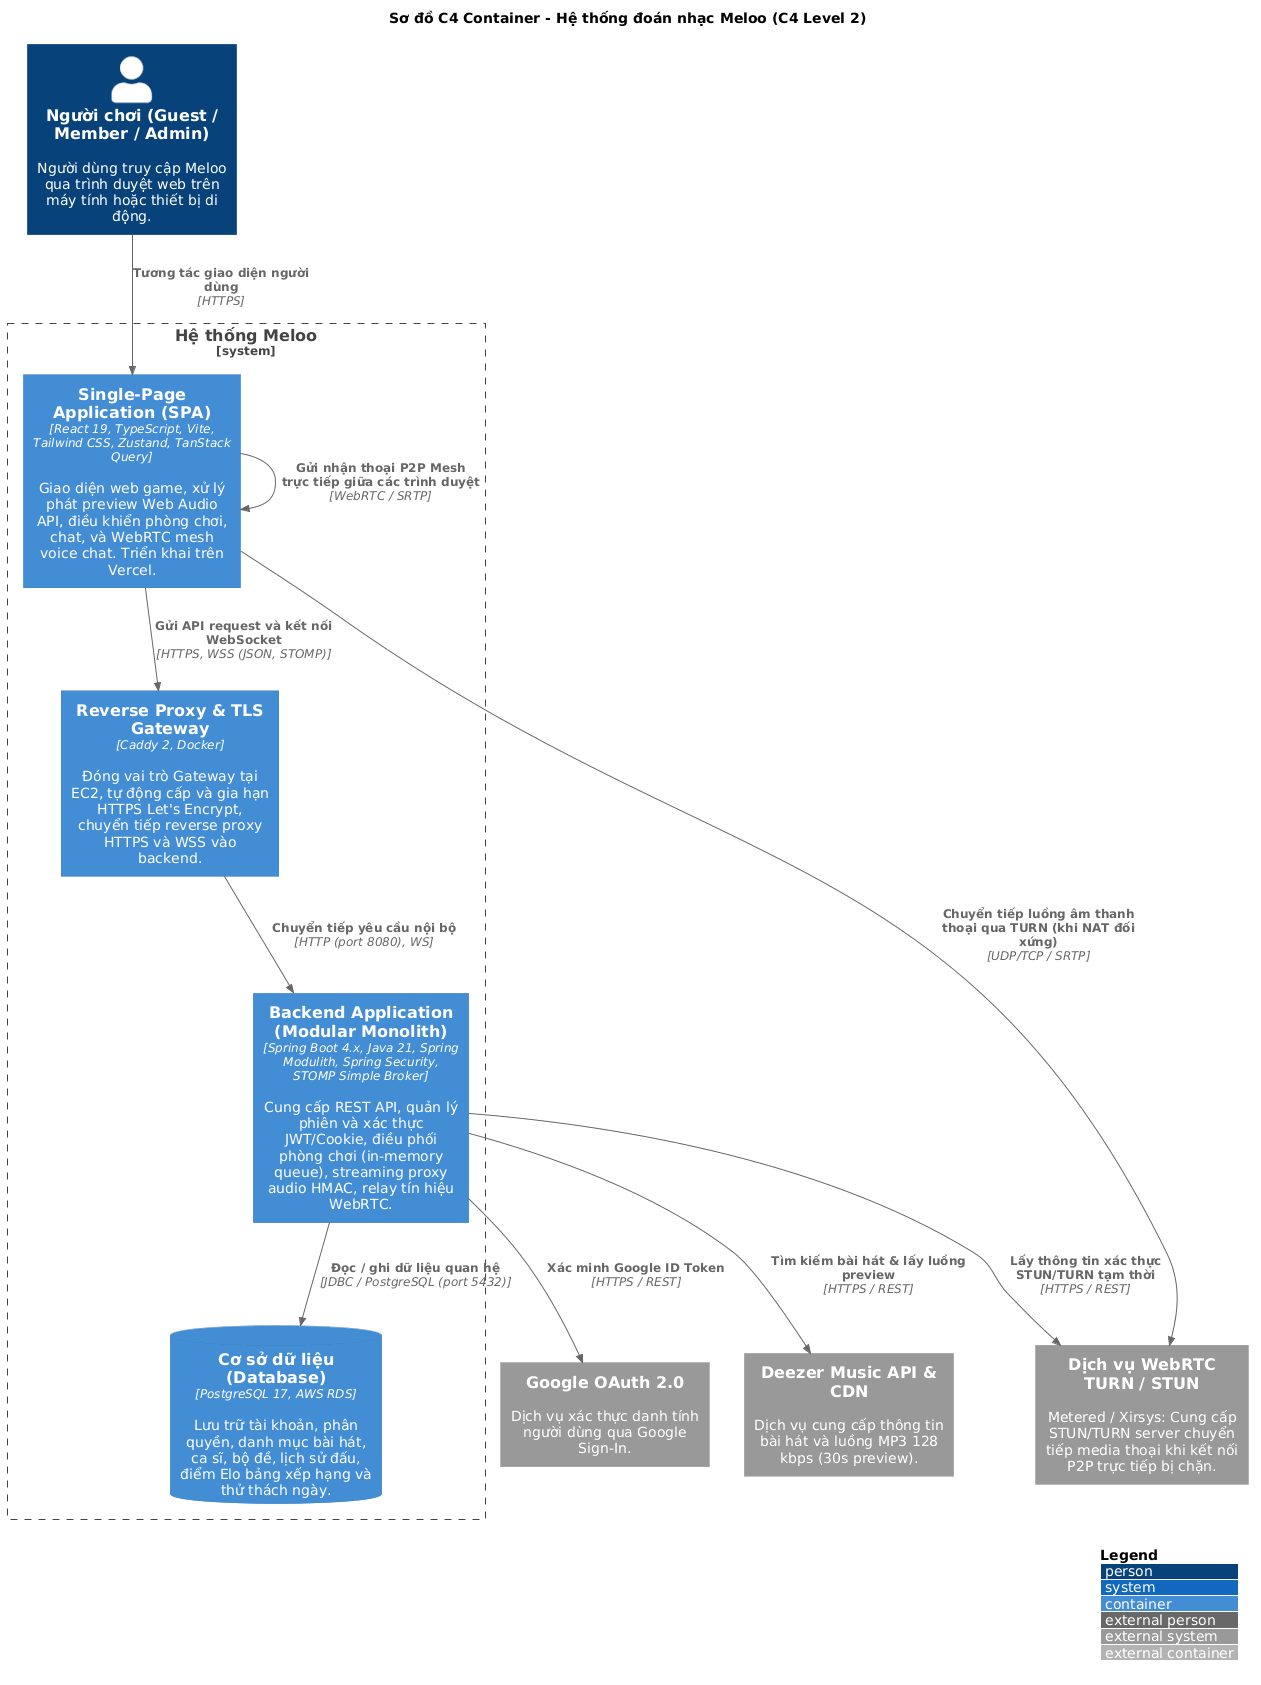
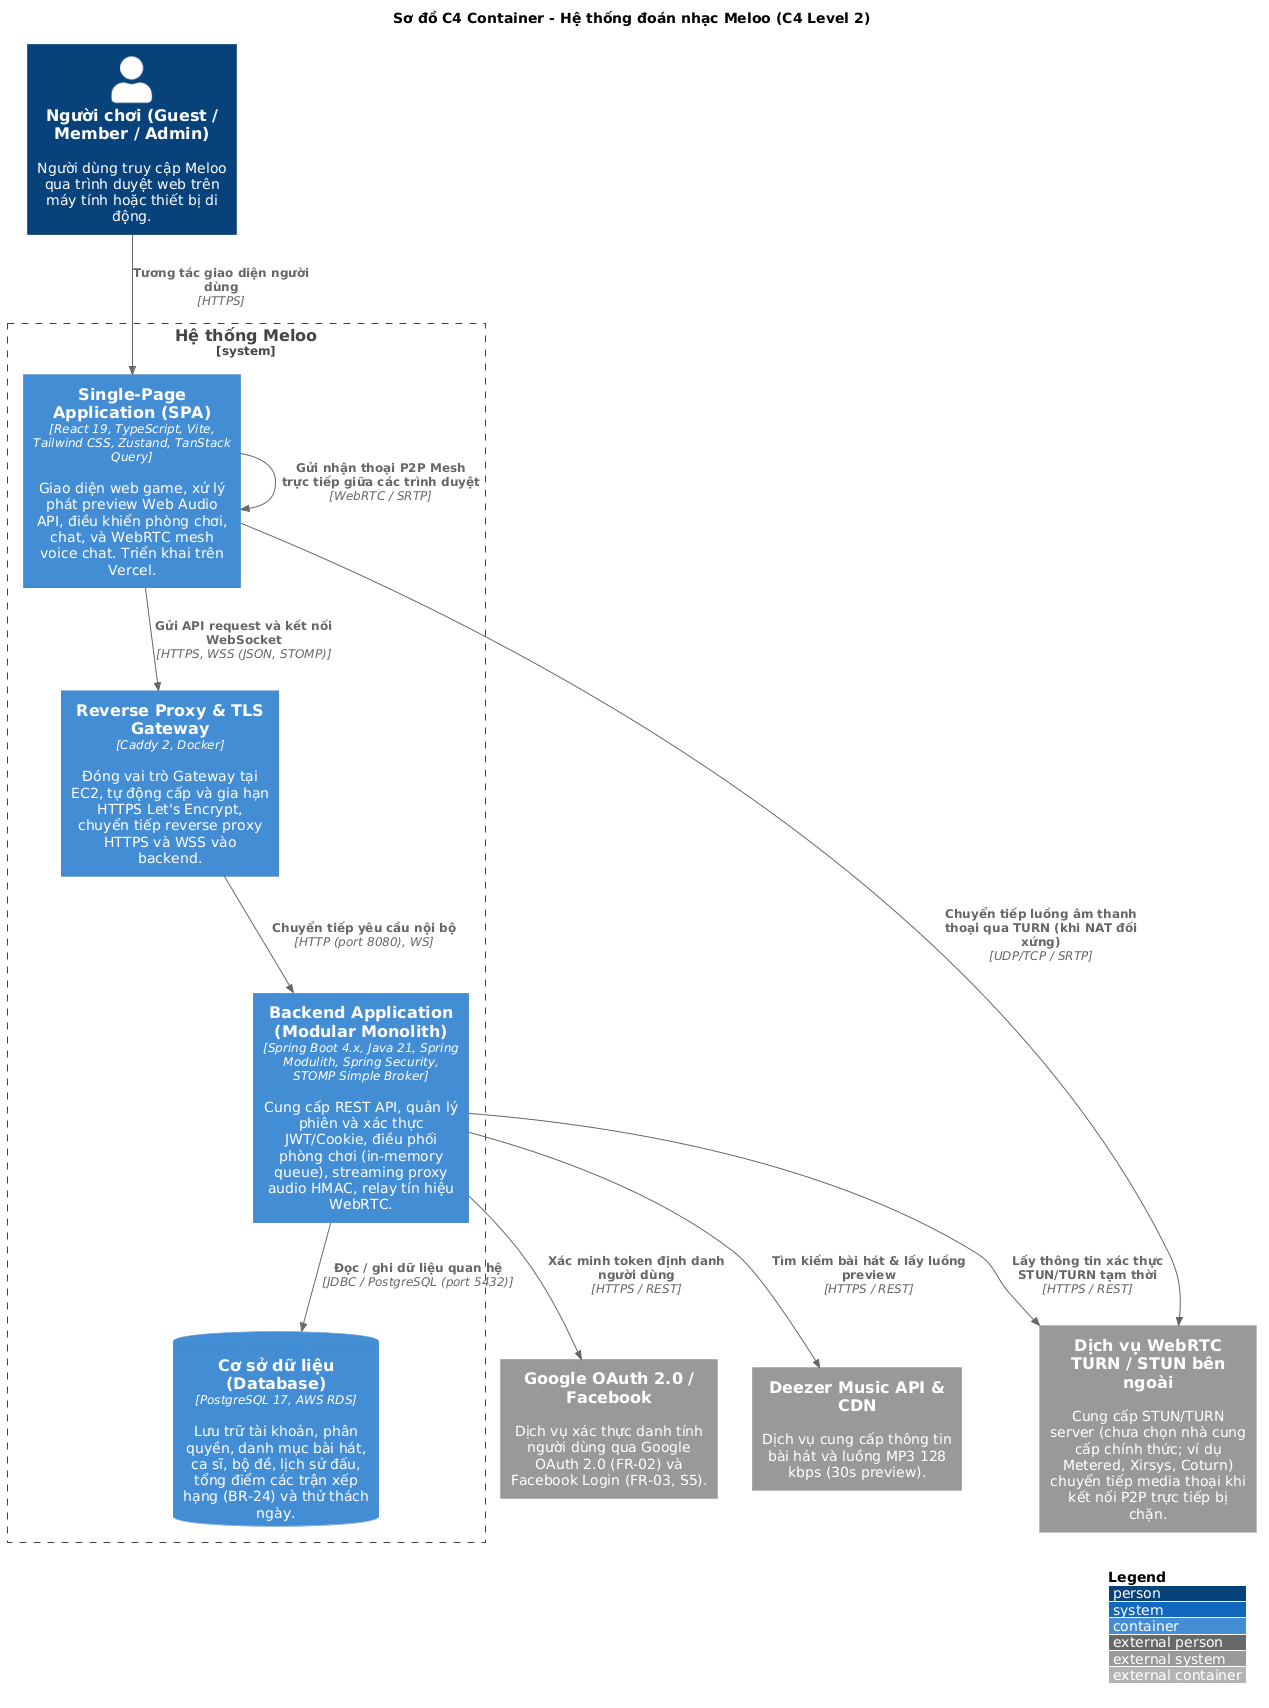
docs(architecture): cập nhật tài liệu kiến trúc và sơ đồ theo review vòng 1

diff --git a/docs/uml/deployment/README.md b/docs/uml/deployment/README.md
@@ -1,12 +1,12 @@
 # Sơ đồ triển khai hạ tầng (Deployment Diagram)
 
-Thư mục này chứa sơ đồ triển khai hạ tầng thực tế của Meloo, phản ánh các thành phần điện toán đám mây và kết nối mạng đã thiết lập trong INF-01, ADR-006 và các script cấu hình AWS.
+Thư mục này chứa sơ đồ triển khai hạ tầng thực tế của Meloo, phản ánh các thành phần điện toán đám mây và kết nối mạng đã thiết lập trong INF-01, ADR-006, các script cấu hình AWS và runbook `docs/runbooks/aws-setup.md`.
 
 ## Danh sách sơ đồ
 
 | Tên sơ đồ | File nguồn | Ảnh xuất | Mô tả |
 |---|---|---|---|
-| **Sơ đồ triển khai hạ tầng** | [`deployment.puml`](deployment.puml) | ![Deployment Diagram](deployment.png) | Triển khai phân tán: Vercel (Edge CDN Static Hosting), Cloudflare (DNS), AWS EC2 Singapore (Docker Compose với Caddy Reverse Proxy & Spring Boot Backend), AWS RDS PostgreSQL 17 (Private Subnet), và TURN Service ngoài. |
+| **Sơ đồ triển khai hạ tầng** | [`deployment.puml`](deployment.puml) | ![Deployment Diagram](deployment.png) | Triển khai phân tán: Vercel (Edge CDN Static Hosting), Cloudflare (DNS), AWS EC2 Singapore (Docker Compose với Caddy Reverse Proxy & Spring Boot Backend), AWS RDS PostgreSQL 17 (Default DB Subnet Group, Public Access = No, SG chỉ nhận 5432 từ EC2) và Dịch vụ WebRTC TURN ngoài. |
 
 ## Các thành phần chính trong hạ tầng
 
@@ -20,20 +20,24 @@ Thư mục này chứa sơ đồ triển khai hạ tầng thực tế của Melo
    - Cung cấp lớp bảo vệ DDoS lớp mạng cơ bản.
 
 3. **AWS EC2 (Region `ap-southeast-1` - Singapore):**
-   - Loại máy: `t3.micro` (1 vCPU, 1 GB RAM vật lý kèm 2 GB swapfile chống OOM, 20 GB gp3 SSD).
+   - Loại máy: `t3.micro` (1 vCPU, 1 GB RAM vật lý kèm 2 GB swapfile chống OOM, 25 GiB gp3 SSD theo `aws-setup.md:33,126`).
+   - Nằm trong Default VPC (`172.31.0.0/16`) theo `setup-security-groups.sh`.
    - Security Group `meloo-ec2-sg`: Mở cổng công khai 80 (HTTP) và 443 (HTTPS); cổng 22 (SSH) được giới hạn nghiêm ngặt chỉ từ IP quản trị viên.
    - Chạy Docker Compose gồm 2 container trên mạng bridge nội bộ `meloo-internal`:
      - `meloo-caddy`: Gateway proxy, tự động quản lý chứng chỉ SSL Let's Encrypt, chuyển tiếp yêu cầu HTTP REST và nâng cấp kết nối WebSocket STOMP (WSS).
-     - `meloo-backend`: Tiến trình Java 21 Spring Boot 4.x đóng kín trong mạng nội bộ, chỉ expose cổng 8080 cho Caddy, cấu hình `-XX:MaxRAMPercentage=60` để kiểm soát heap RAM.
+     - `meloo-backend`: Tiến trình Java 21 Spring Boot 4.x đóng kín trong mạng nội bộ, chỉ expose cổng 8080 cho Caddy, cấu hình `-XX:MaxRAMPercentage=60 -XX:+ExitOnOutOfMemoryError` để kiểm soát heap RAM.
 
 4. **AWS RDS (PostgreSQL 17):**
-   - Đặt trong Private DB Subnet cách ly hoàn toàn khỏi Internet (Publicly Accessible: No).
-   - Security Group `meloo-rds-sg`: Chỉ chấp nhận kết nối TCP cổng 5432 bắt nguồn từ `meloo-ec2-sg`.
+   - Tên cơ sở dữ liệu: `meloo` (theo `aws-setup.md:212` và `env.prod.example`).
+   - Đặt trong Default DB Subnet Group (`default`) của Default VPC, không gán Public IP (`Publicly Accessible = No`).
+   - Security Group `meloo-rds-sg`: Chỉ chấp nhận kết nối TCP cổng 5432 bắt nguồn từ `meloo-ec2-sg` (cách ly truy cập mạng).
    - Cơ chế sao lưu tự động (Automated Backups) hàng ngày đảm bảo RPO ≤ 24 giờ (NFR-15).
+   - *(Ghi chú cải tiến tương lai: khi nâng cấp hệ thống có thể cấu hình Private Subnet chuyên biệt không có Internet Gateway).*
 
-5. **Dịch vụ WebRTC STUN/TURN ngoài (Metered / Xirsys):**
+5. **Dịch vụ WebRTC STUN/TURN bên ngoài:**
+   - Chưa chọn nhà cung cấp chính thức (ví dụ: Metered, Xirsys, Twilio, hoặc Coturn tự host).
    - Hỗ trợ thiết lập kênh thoại WebRTC Mesh P2P giữa các trình duyệt.
-   - Chuyển tiếp luồng âm thanh thoại qua TURN Relay (UDP/TCP 3478, TURNS 5349) khi người chơi nằm sau mạng tường lửa hoặc NAT đối xứng (Symmetric NAT).
+   - Chuyển tiếp luồng âm thanh thoại qua TURN Relay khi người chơi nằm sau mạng tường lửa hoặc NAT đối xứng (Symmetric NAT).
 
 ## Cách biên dịch lại sơ đồ
 Sử dụng Docker image `plantuml/plantuml`:
